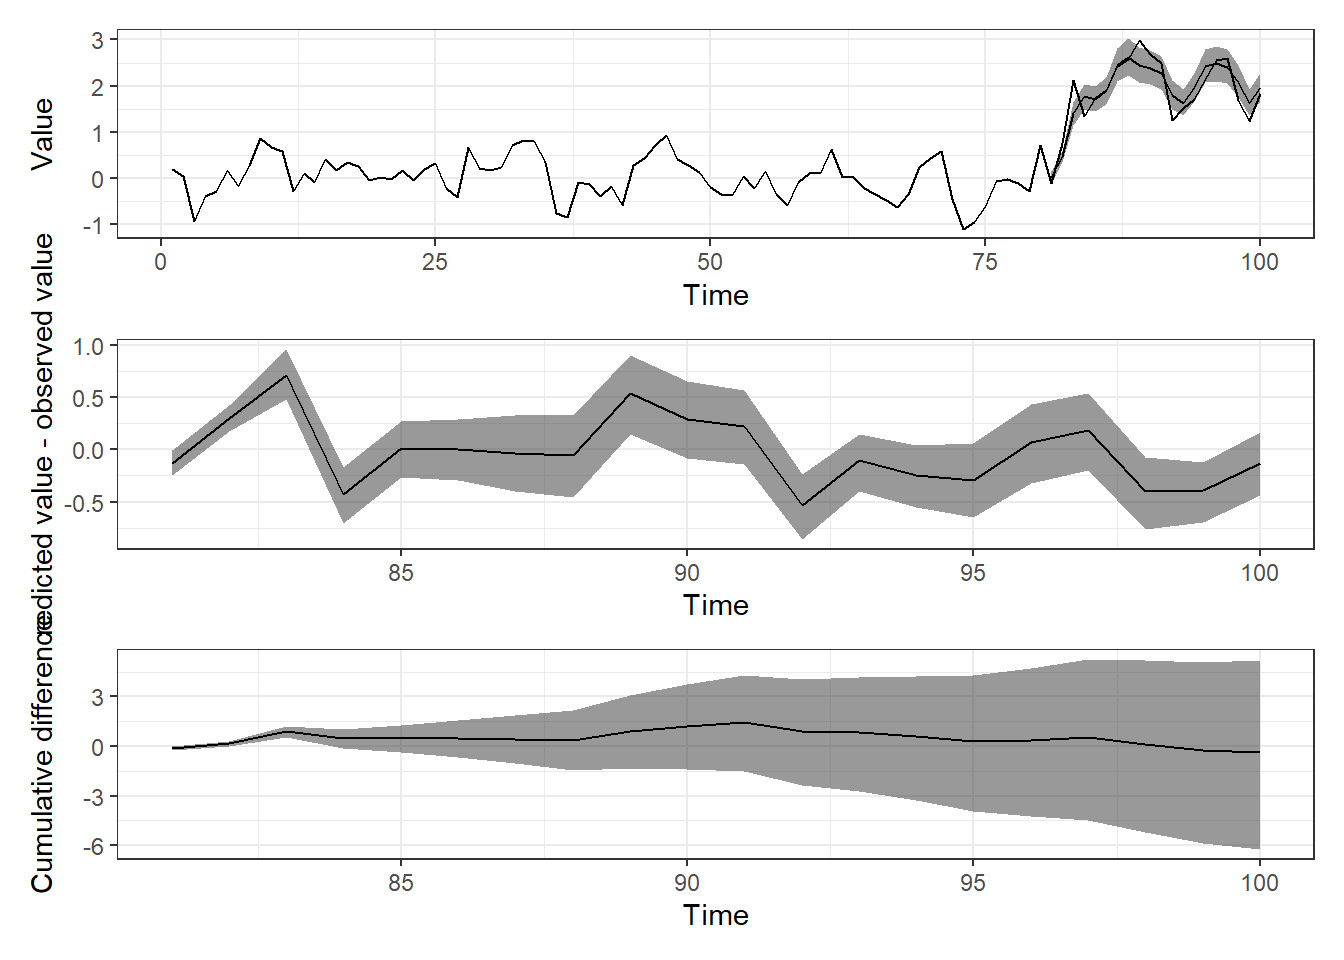
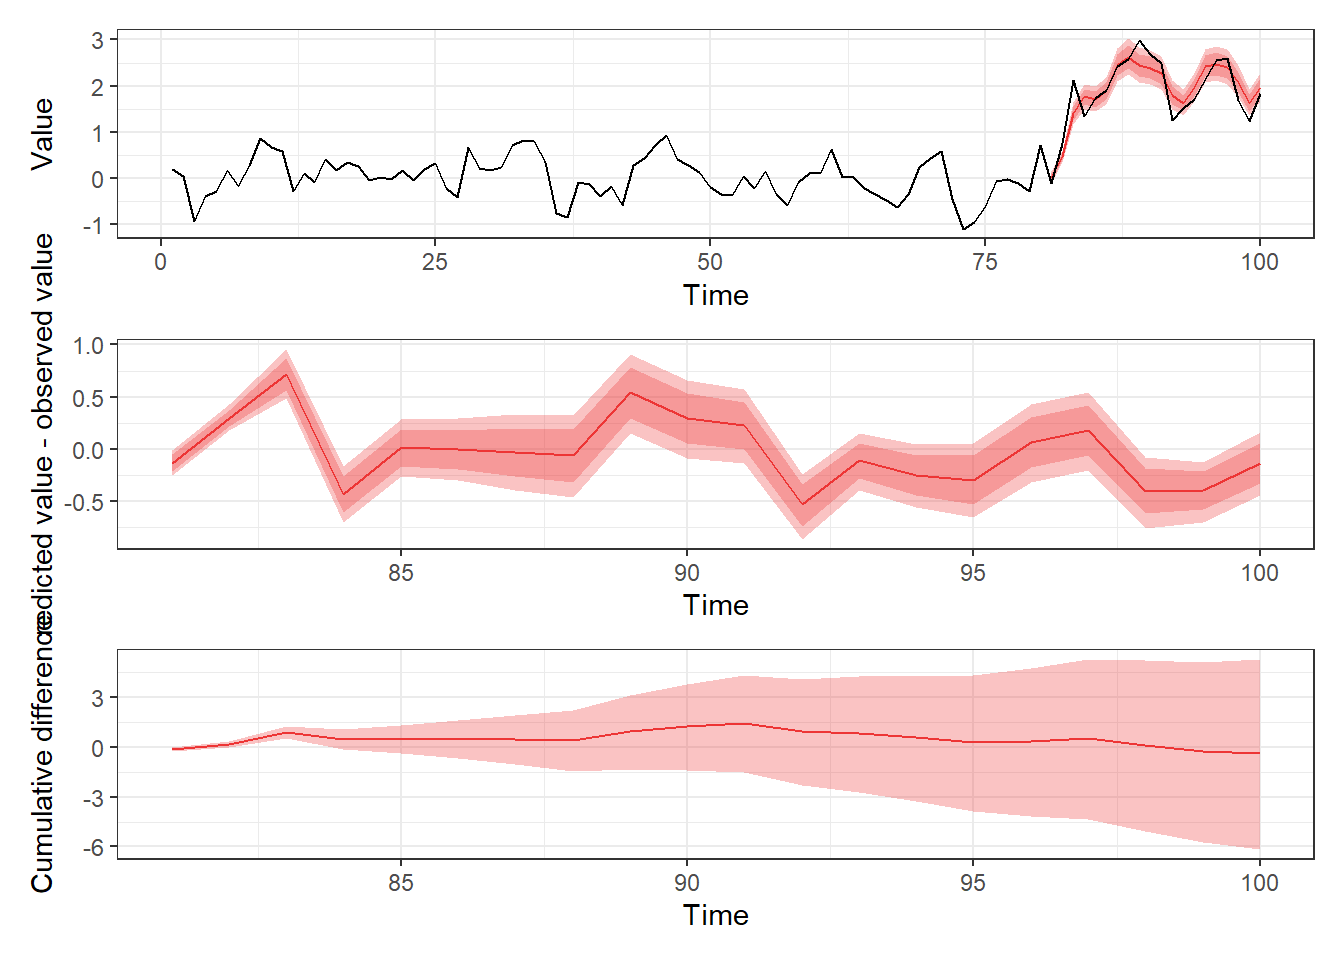
additional figure and some tweaks to text/figures

diff --git a/content/blog/2022-12-15-dynamite-r-package/index.md b/content/blog/2022-12-15-dynamite-r-package/index.md
@@ -2,8 +2,8 @@
 title: Dynamite for Causal Inference from Panel Data using Dynamic Multivariate Panel
   Models
 author: "Jouni Helske"
-date: '2022-12-15'
-slug: dynamite-r-package
+date: "2022-12-15"
+slug: "dynamite-r-package"
 tags:
 - dynamite
 - Bayesian
@@ -14,10 +14,10 @@ tags:
 - packages
 - R
 - community
-package_version: 1.0.1
+package_version: 1.0.2
 description: Dynamite is a new R package for Bayesian modelling of complex panel data
   using dynamic multivariate panel models.
-tweet: "A post about {dynamite} R package by @jouni_helske!"
+tweet: A post about {dynamite} R package by @jouni_helske!
 ---
 
 
@@ -35,7 +35,7 @@ A new [rOpensci-approved](https://github.com/ropensci/software-review/issues/554
 * Probabilistic posterior-predictive simulations for long-term causal effect estimation (including not only the average causal effects but the full interventional distributions of interest)
 
 The theory regarding the model and the subsequent causal effect estimation for panel data, with some examples, can be found in the [SocArxiv preprint](https://osf.io/preprints/socarxiv/mdwu5/)[^1] and the package [vignette](https://docs.ropensci.org/dynamite/articles/dynamite.html). 
-In this post, I will illustrate the use of `dynamite` in an univariate synthetic control setting (where we have data only on a single "individual") popularized by the [`CausalImpact`](https://CRAN.R-project.org/package=CausalImpact)[^2] package.
+In this post, I will illustrate the use of `dynamite` for a synthetic control approach popularized by the [`CausalImpact`](https://CRAN.R-project.org/package=CausalImpact)[^2] package in univariate time series setting where we have data only on a single "individual".
 
 
 ## Data generation
@@ -82,6 +82,7 @@ ggplot(d, aes(time)) +
     theme_bw()
 ```
 {{<figure src="data-1.png" alt="Figure showing the simulated x and y variables.">}}
+
 ## Causal inference based on synthetic control with dynamite
 
 While in the data generation the `\(y_t\)` variable did not depend on the lagged value `\(y_{t-1}\)`and `\(z_t\)`, I will nevertheless estimate a model where both `\(x_t\)` and `\(y_t\)` depend on the `\(x_{t-1}\)` and `\(y_{t-1}\)`, as well as `\(z\)`, mimicking the fact that I'm not sure about the true causal graph (structure of DGP). 
@@ -94,7 +95,7 @@ f <- obs(y ~ z, family = "gaussian") + obs(x ~ z, family = "gaussian") + lags()
 #   obs(x ~ z + lag(y) + lag(x), "gaussian)
 ```
 
-We can now estimate our model with `dynamite` for which we need to define the data, the variable in the data defining the time index, and the grouping variable, which can be ignored in this univariate case:
+We can now estimate our model with `dynamite` for which we need to define the data, the variable in the data defining the time index (argument `time`), and the grouping variable (argument `group`), which can be ignored in this univariate case:
 ```r 
 fit <- dynamite(f,
   data = d,
@@ -108,7 +109,7 @@ Compiling Stan model.
 
 The actual estimation delegated to [Stan](mc-stan.org) using either [rstan](https://cran.r-project.org/package=rstan) (default) or [cmdstanr](https://github.com/stan-dev/cmdstanr) backend. 
 The last arguments are passed to `rstan:sampling` which runs the Markov chain Monte Carlo for us. 
-While `rstan` is the default backend as it is available at CRAN, we recommend more efficient `cmdstanr` or the latest development version of `rstan``, available at [Stan's repo for R packages](http://mc-stan.org/r-packages/).
+While `rstan` is the default backend as it is available at CRAN, we recommend often more efficient `cmdstanr` or the latest development version of `rstan``, available at [Stan's repo for R packages](http://mc-stan.org/r-packages/).
 
 Let's see some results:
 ```r 
@@ -132,10 +133,10 @@ Largest Rhat: 1.003 (sigma_y)
 
 Elapsed time (seconds):
         warmup sample
-chain:1  4.446  3.933
-chain:2  4.575  4.296
-chain:3  4.375  3.667
-chain:4  4.343  4.018
+chain:1  4.482  4.090
+chain:2  4.545  4.381
+chain:3  4.252  3.778
+chain:4  4.333  4.139
 
 Summary statistics of the time-invariant parameters:
 # A tibble: 10 × 10
@@ -154,10 +155,37 @@ Summary statistics of the time-invariant parameters:
 # … with abbreviated variable names ¹variable, ²ess_bulk, ³ess_tail
 ```
 
-The coefficient estimates are pretty much in line with the data generation, but notice the relatively large posterior standard errors of the coefficients related to `\(z\)`; this is due to the fact that we have only a single series and single changepoint at time `\(t=151\)`.
+The coefficient estimates are pretty much in line with the data generation, but notice the relatively large posterior standard errors of the coefficients related to `\(z\)`; this is due to the fact that we have only a single series and single changepoint at time `\(t=81\)`.
 
-Given the posterior samples of the model parameters, I can make some predictions. 
-First I create new data frame where `\(z=0\)` for all time points, and where `\(y\)` and `\(x\)` are set to missing values starting from `\(t=811\)` (the time point where started our intervention `\(z=1\)`):
+We can now perform some posterior predictive checks. First, we can check how well the posterior samples of our one-step-ahead predictions match with the observations by using the [`fitted()`](https://docs.ropensci.org/dynamite/reference/fitted.dynamitefit.html) method and visualizing these posterior predictive distributions:
+
+```r 
+out <- fitted(fit) |> 
+  group_by(time) |>
+  summarise(
+    mean = mean(y_fitted),
+    lwr80 = quantile(y_fitted, 0.1, na.rm = TRUE), # na.rm as t = 1 is fixed
+    upr80 = quantile(y_fitted, 0.9, na.rm = TRUE),
+    lwr95 = quantile(y_fitted, 0.025, na.rm = TRUE),
+    upr95 = quantile(y_fitted, 0.975, na.rm = TRUE))
+ggplot(out, aes(time, mean)) +
+  geom_ribbon(aes(ymin = lwr95, ymax = upr95), alpha = 0.3, fill = "#ED3535") +
+  geom_ribbon(aes(ymin = lwr80, ymax = upr80), alpha = 0.3, fill = "#ED3535") +
+  geom_line(colour = "#ED3535") +
+  geom_line(data = d, aes(y = y), colour = "black") +
+  xlab("Time") + ylab("Value") +
+  theme_bw()
+```
+
+```
+Warning: Removed 1 row(s) containing missing values (geom_path).
+```
+
+{{<figure src="unnamed-chunk-5-1.png" >}}
+Note that these are not real out-of-sample predictions as the posterior samples of model parameters used for these predictions are based on all our observations, which would be especially problematic for a model containing time-varying components (e.g., splines). More "honest" (and time consuming) approach would be to use approximate leave-future-out cross-validation via [`lfo()`](https://docs.ropensci.org/dynamite/reference/lfo.html) function.
+
+Given the posterior samples of the model parameters, I can also make some counterfactual predictions. 
+First I create new data frame where `\(z=0\)` for all time points, and where `\(y\)` and `\(x\)` are set to missing values starting from `\(t=81\)` (the time point where started our intervention `\(z=1\)`):
 ```r 
 newdata <- d
 newdata$z <- 0
@@ -165,7 +193,7 @@ newdata$y[81:100] <- NA
 newdata$x[81:100] <- NA
 ```
 
-I then input this new data to the `predict` method and define that I want predictions of means instead of new observations by using `type = "mean"` (new observations are still simulated behind the scenes in order to move forward in time):
+I then input this new data to the [`predict()`](https://docs.ropensci.org/dynamite/reference/predict.dynamitefit.html) method and define that I want posterior samples of expected values instead of new observations by using `type = "mean"` (new observations are still simulated behind the scenes in order to move forward in time):
 ```r 
 pred <- predict(fit, newdata = newdata, type = "mean") |> 
   filter(time > 80)
@@ -173,40 +201,52 @@ head(pred)
 ```
 
 ```
-       y_mean     x_mean .group time .draw z  y  x
-1 -0.06056405 -0.4600755      1   81     1 0 NA NA
-2 -0.15246709 -0.4605619      1   82     1 0 NA NA
-3 -0.35474296 -0.1925523      1   83     1 0 NA NA
-4  0.01013159 -0.3013338      1   84     1 0 NA NA
-5 -0.24533037 -0.3359187      1   85     1 0 NA NA
-6 -0.08941339 -0.2118341      1   86     1 0 NA NA
+        y_mean     x_mean .group time .draw z  y  x
+1  0.095638896 -0.4543729      1   81     1 0 NA NA
+2 -0.001717773 -0.5486151      1   82     1 0 NA NA
+3 -0.420702197 -0.4444779      1   83     1 0 NA NA
+4 -0.042682583 -0.5119842      1   84     1 0 NA NA
+5 -0.332072878 -0.5593297      1   85     1 0 NA NA
+6 -0.193385491 -0.4175845      1   86     1 0 NA NA
 ```
 
-From these I compute the posterior mean and 95% intervals for each time point:
+From these I compute the posterior mean, 80% and 95% intervals for each time point:
 ```r 
 sumr <- pred |> 
   group_by(time) |>
   summarise(
     mean = mean(y_mean),
-    lwr = quantile(y_mean, 0.025),
-    upr = quantile(y_mean, 0.975))
+    lwr80 = quantile(y_mean, 0.1),
+    upr80 = quantile(y_mean, 0.9),
+    lwr95 = quantile(y_mean, 0.025),
+    upr95 = quantile(y_mean, 0.975))
 ```
 
-And finally some figures, the actual predictions, difference compared to observed values, and finaly cumulative differences:
+And some figures following similar visualization style as popularized by the `CausalImpact` consisting of the actual predictions, difference compared to observed values, and cumulative differences of these:
 ```r 
 p1 <- ggplot(sumr, aes(time, mean)) +
-  geom_ribbon(aes(ymin = lwr, ymax = upr), alpha = 0.5) +
-  geom_line() +
+  geom_ribbon(aes(ymin = lwr95, ymax = upr95), alpha = 0.3, fill = "#ED3535") +
+  geom_ribbon(aes(ymin = lwr80, ymax = upr80), alpha = 0.3, fill = "#ED3535") +
+  geom_line(colour = "#ED3535") +
   geom_line(data = d, aes(y = y), colour = "black") +
   xlab("Time") + ylab("Value") +
   theme_bw()
 
 sumr$y_obs <- y[81:100]
 p2 <- sumr |> 
-  mutate(y_obs_diff = y_obs - mean, lwr_diff = y_obs-lwr, upr_diff = y_obs - upr ) |>
+  mutate(
+    y_obs_diff = y_obs - mean, 
+    lwr_diff80 = y_obs - lwr80, 
+    upr_diff80 = y_obs - upr80,
+    lwr_diff95 = y_obs - lwr95, 
+    upr_diff95 = y_obs - upr95
+  ) |>
   ggplot(aes(time, y_obs_diff)) +
-  geom_ribbon(aes(ymin = lwr_diff,ymax = upr_diff), alpha = 0.5) +
-  geom_line() +
+  geom_ribbon(aes(ymin = lwr_diff95, ymax = upr_diff95), 
+    alpha = 0.3, fill = "#ED3535") +
+  geom_ribbon(aes(ymin = lwr_diff80, ymax = upr_diff80), 
+    alpha = 0.3, fill = "#ED3535") +
+  geom_line(colour = "#ED3535") +
   xlab("Time") + ylab("Predicted value - observed value") +
   theme_bw()
 
@@ -227,8 +267,8 @@ cs_sumr <- pred |>
 
 ```r 
 p3 <- ggplot(cs_sumr, aes(time, mean)) +
-  geom_ribbon(aes(ymin = lwr, ymax = upr), alpha = 0.5) +
-  geom_line() +
+  geom_ribbon(aes(ymin = lwr, ymax = upr), alpha = 0.3, fill = "#ED3535") +
+  geom_line(colour = "#ED3535") +
   xlab("Time") + 
   ylab("Cumulative difference") +
   theme_bw()
@@ -251,22 +291,34 @@ sumr_fixed_x <- pred_fixed_x |>
   group_by(time) |>
   summarise(
     mean = mean(y_mean),
-    lwr = quantile(y_mean, 0.025),
-    upr = quantile(y_mean, 0.975))
+    lwr80 = quantile(y_mean, 0.1),
+    upr80 = quantile(y_mean, 0.9),
+    lwr95 = quantile(y_mean, 0.025),
+    upr95 = quantile(y_mean, 0.975))
 
 p1 <- ggplot(sumr_fixed_x, aes(time, mean)) +
-  geom_ribbon(aes(ymin = lwr, ymax = upr), alpha = 0.5) +
-  geom_line() +
+  geom_ribbon(aes(ymin = lwr95, ymax = upr95), alpha = 0.3, fill = "#ED3535") +
+  geom_ribbon(aes(ymin = lwr80, ymax = upr80), alpha = 0.3, fill = "#ED3535") +
+  geom_line(colour = "#ED3535") +
   geom_line(data = d, aes(y = y), colour = "black") +
   xlab("Time") + ylab("Value") +
   theme_bw()
 
 sumr_fixed_x$y_obs <- y[81:100]
 p2 <- sumr_fixed_x |> 
-  mutate(y_obs_diff = y_obs - mean, lwr_diff = y_obs-lwr, upr_diff = y_obs - upr ) |>
+mutate(
+    y_obs_diff = y_obs - mean, 
+    lwr_diff80 = y_obs - lwr80, 
+    upr_diff80 = y_obs - upr80,
+    lwr_diff95 = y_obs - lwr95, 
+    upr_diff95 = y_obs - upr95
+  ) |>
   ggplot(aes(time, y_obs_diff)) +
-  geom_ribbon(aes(ymin = lwr_diff,ymax = upr_diff), alpha = 0.5) +
-  geom_line() +
+  geom_ribbon(aes(ymin = lwr_diff95, ymax = upr_diff95), 
+    alpha = 0.3, fill = "#ED3535") +
+  geom_ribbon(aes(ymin = lwr_diff80, ymax = upr_diff80), 
+    alpha = 0.3, fill = "#ED3535") +
+  geom_line(colour = "#ED3535") +
   xlab("Time") + ylab("Predicted value - observed value") +
   theme_bw()
 
@@ -287,8 +339,8 @@ cs_sumr_fixed_x <- pred_fixed_x |>
 
 ```r 
 p3 <- ggplot(cs_sumr_fixed_x, aes(time, mean)) +
-  geom_ribbon(aes(ymin = lwr, ymax = upr), alpha = 0.5) +
-  geom_line() +
+  geom_ribbon(aes(ymin = lwr, ymax = upr), alpha = 0.3, fill = "#ED3535") +
+  geom_line(colour = "#ED3535") +
   xlab("Time") + 
   ylab("Cumulative difference") +
   theme_bw()
@@ -300,8 +352,8 @@ As expected, the (wrong) conclusion would be that our original intervention did 
 
 ## Future directions
 
-In future, we plan to also support group-specific effects for time-invariant effects, and more distributions such as Weibull, multinomial, and `\(t\)`-distribution. 
-We would also be very interested in seeing and hearing how the package is used in various applications, especially if you can share your data openly.
+In future, we plan to also support group-specific effects for time-invariant effects, and more distributions such as Weibull, multinomial, and `\(t\)`-distribution for the response variables. 
+We would also be very interested in hearing how the package is used in various applications, especially if you can share your data openly.
 Pull requests and other contributions are very welcome.
 
 
